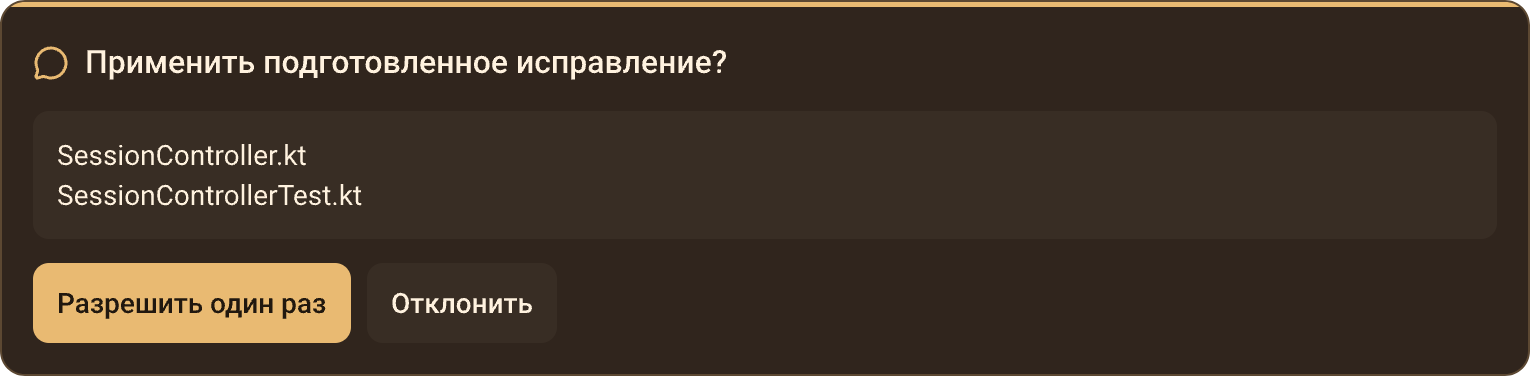
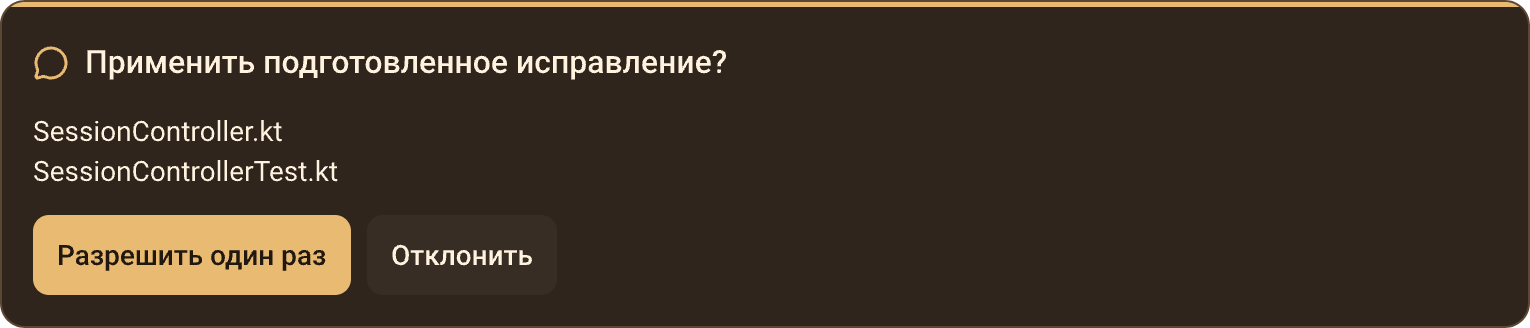
Render permission description without inset card

diff --git a/plans/aurora-chat-content.md b/plans/aurora-chat-content.md
@@ -30,7 +30,7 @@ Permission Request и User Input Request — доверенные элемент
 
 Title самого запроса занимает шапку рядом с иконкой. Общей строки «Нужен ваш ответ» и повторного заголовка в теле нет. Subtitle, любые футеры и вспомогательные пояснения удалены. Цвет и верхняя полоса таймера сохранены. Только локальная ошибка проверки ответа располагается сверху, под шапкой. Ошибок отправки в панели нет: ответ уходит сообщением или результатом инструмента, и при сбое ошибочным выделяется этот объект истории.
 
-Единая панель описана в [стандарте запросов](aurora-decision-panel.md). По уточнению оператора сохраняются тёплый цвет референса PR #513 и верхняя полоса таймера. Строгое разрешение показывает конкретное действие, цель, аргументы и область решения; кнопки «Разрешить один раз» / «Отклонить» непосредственно отправляют решение. Дополнительных radio-выбора, поля комментария и кнопки «Подтвердить» у строгого разрешения нет. Предвыбор и истечение времени не дают разрешения; общий Enter не запускает согласие.
+Единая панель описана в [стандарте запросов](aurora-decision-panel.md). По уточнению оператора сохраняются тёплый цвет референса PR #513 и верхняя полоса таймера. Строгое разрешение показывает конкретное действие, цель, аргументы и область решения. Description — обычный текст на поверхности панели, без отдельной подложки, рамки и внутренних полей; кнопки «Разрешить один раз» / «Отклонить» непосредственно отправляют решение. Дополнительных radio-выбора, поля комментария и кнопки «Подтвердить» у строгого разрешения нет. Предвыбор и истечение времени не дают разрешения; общий Enter не запускает согласие.
 
 Опросник показывает один вопрос за раз: вертикальные radio/checkbox-варианты, поле без дополнительной подписи над ним и «Далее / Отправить». Дополнительный текст доступен только при поддержке источником: выбранный вариант и комментарий отправляются вместе; при отсутствии выбранных вариантов отправляется собственный текст. Кнопки «Снять выбор» нет; доступное имя поля сохраняется в семантике. Поле не скрывается за вариантом «Другое». Confirm с комментарием сохраняет Да/Нет до общей отправки «Отправить». На Android клавиатура появляется только по фокусу поля. «Далее» и «Назад» только переключают вопросы, сохраняя локальный черновик; ничего не отправляют. «Назад» сохраняет все введённые ответы, варианты и комментарии набора; при возвращении они восстанавливаются. «Пропустить» локально отмечает вопрос пропущенным и переключает на следующий без отправки. Если вернуться и ответить на пропущенный вопрос, отметка снимается сразу. Возврат или фокус без ответа не снимают пропуск. На последнем вопросе остаётся явная кнопка «Отправить», автоматического закрытия нет. Проверка и отправка всего набора, включая отметки пропуска, выполняются только по «Отправить». По «Отправить» вопросы и ответы всего набора объединяются в одно сообщение или результат инструмента согласно источнику запроса. Все вопросы сразу уходят из активной области; опросник исчезает и возвращается composer с прежним черновиком и вложениями, без ожидания подтверждения сервера. Сбой и повтор принадлежат этому объекту истории, с тем же ID; панель опросника не превращается в форму повторной отправки. Отклонение разрешения возвращает агенту отказ без выполнения запрещённого действия.
 

diff --git a/plans/aurora-decision-panel.md b/plans/aurora-decision-panel.md
@@ -254,3 +254,7 @@
 ## Удаление строки проекта и агента
 
 По прямому поручению оператора удаляется строка «Heartbeat · Проверка контрактов» (`tqVSP`) из общего блока подробностей разрешения, на desktop и Android. Аудит: строка повторяет контекст и добавляет лишний уровень текста. Принятое направление сохраняется: разрешение конкретного действия; краткий и точный характер; существующая поверхность; операция и кнопки как акценты; верхняя полоса. В блоке остаются аргументы операции, без пустого отступа на месте удалённой строки.
+
+## Description без выделенного блока
+
+По прямому поручению оператора description разрешения располагается прямо на поверхности панели. У `o1lUt` убираются отдельная заливка, скругление и внутренние поля: текст выровнен с заголовком и действиями, общий интервал 12 сохраняется. Аудит: вложенная карточка избыточно выделяла описание. Направление прежнее: конкретное действие; краткость и точность; существующая поверхность; акцент на заголовке и кнопках; верхняя полоса. Применяется к desktop и Android.
